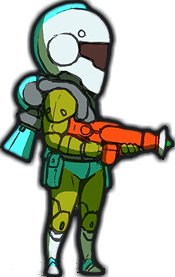
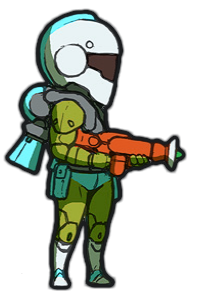
issue#242 last upd

diff --git a/public/stylesheets/main.css b/public/stylesheets/main.css
@@ -968,8 +968,8 @@ body {
 }
 
 .astromen-img {
-	height: 150px;
-	width: 170px;
+	height: 165px;
+	width: 200px;
 	background-image: url(../images/pages/astromen.png);
 	background-repeat: no-repeat;
 	overflow: hidden;

diff --git a/public/views/main/login.html b/public/views/main/login.html
@@ -37,7 +37,7 @@
 
 					<button class="login-button float-right"
 							ui-sref="lesson({id: 0})">
-						<span>Поступление</span>
+						<span>Регистрация</span>
 					</button>
 				</div>
 
